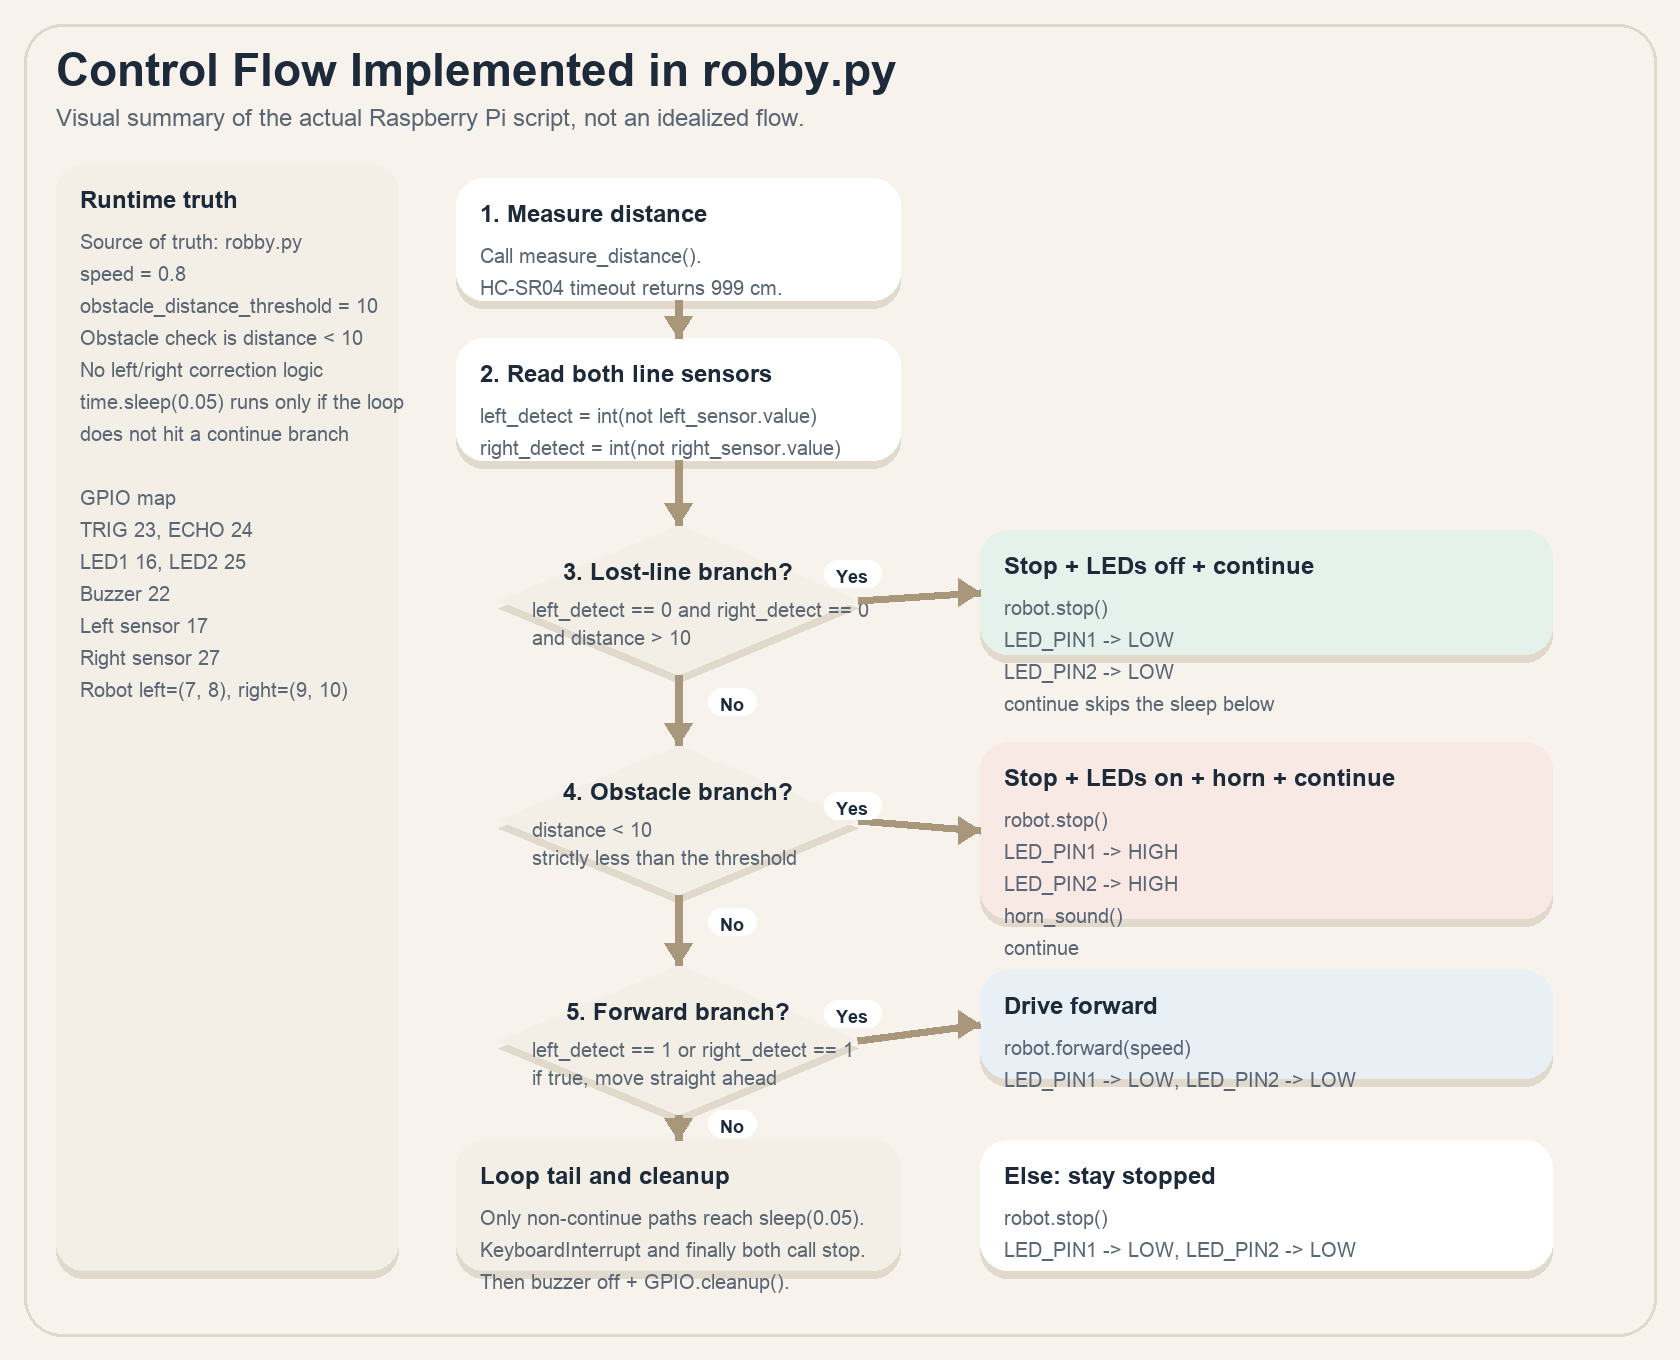
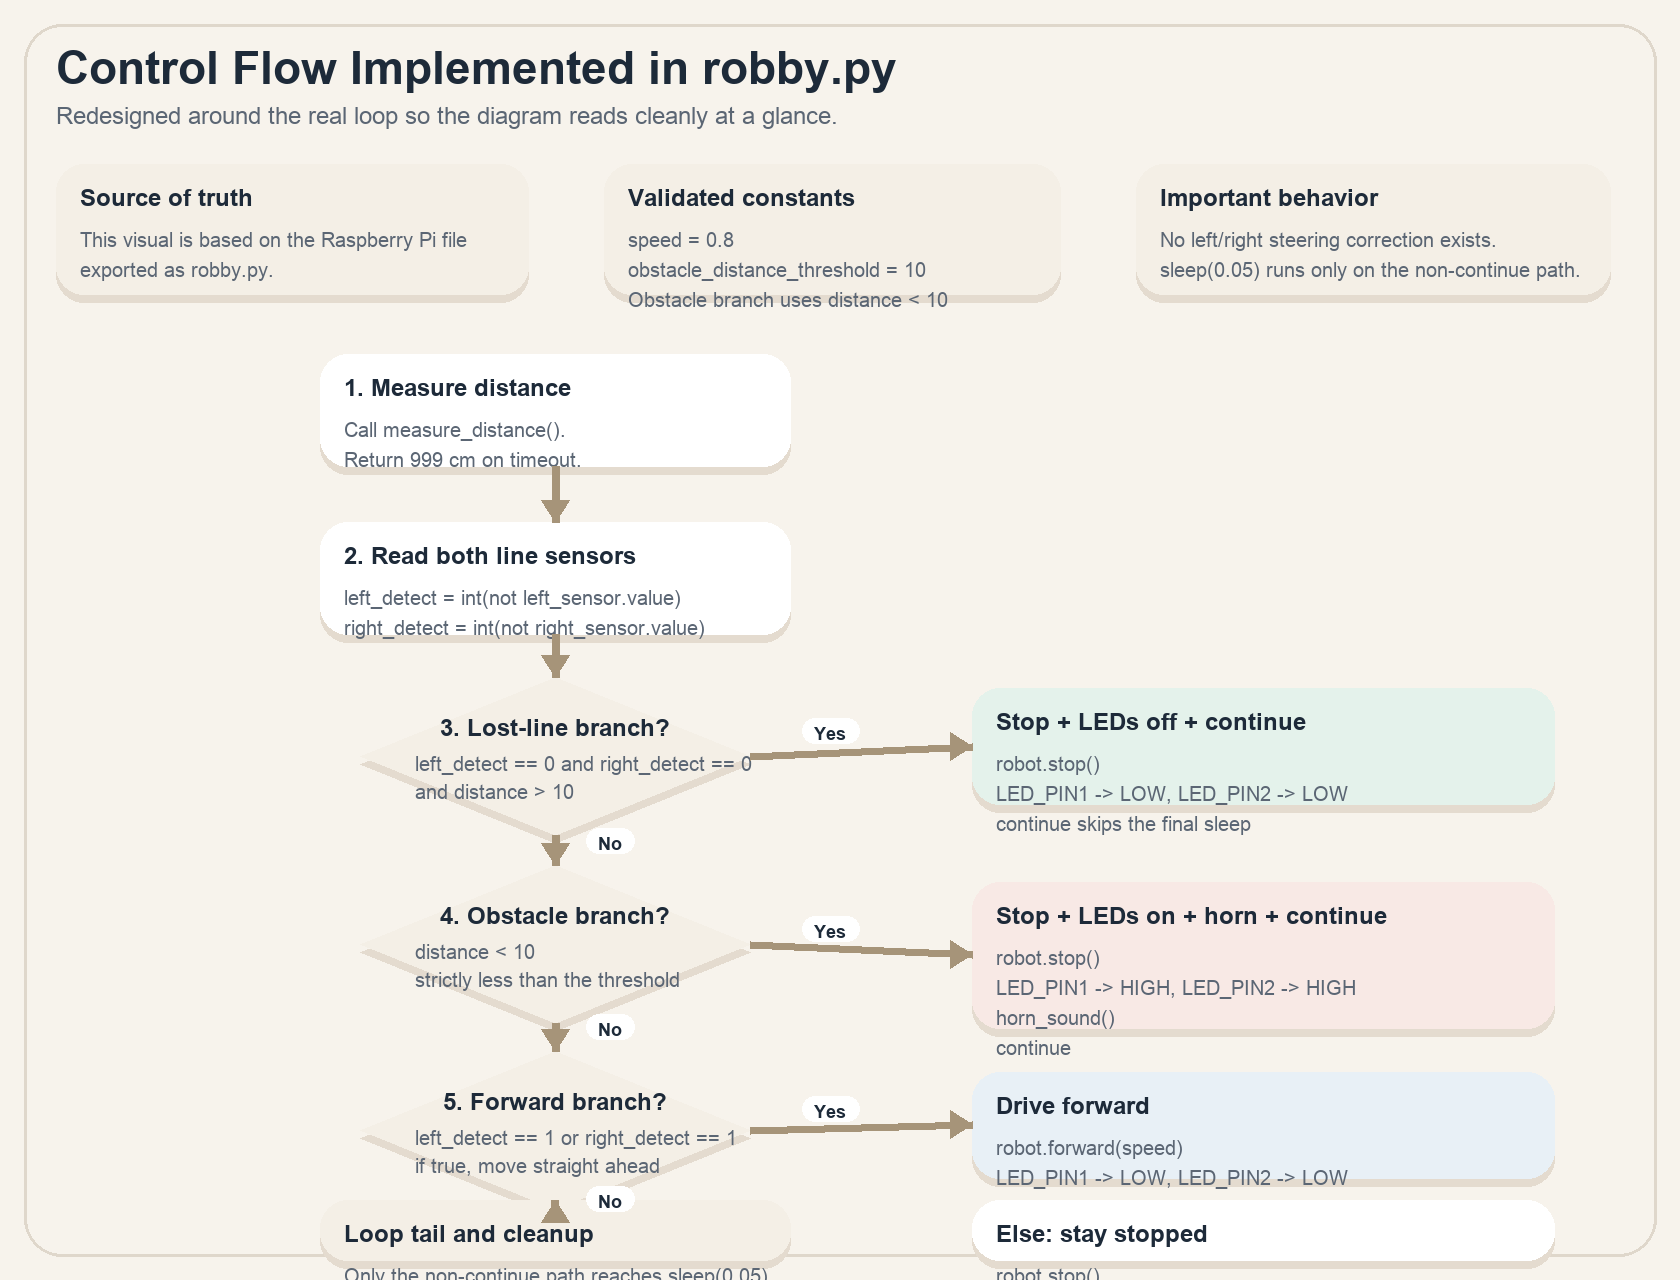
Redesign control flow visual

diff --git a/tools/render_control_flow.py b/tools/render_control_flow.py
@@ -9,58 +9,57 @@ ROOT = Path(__file__).resolve().parents[1]
 OUTPUT = ROOT / "docs" / "assets" / "control-flow.png"
 
 WIDTH = 1680
-HEIGHT = 1360
+HEIGHT = 1280
 
 BG = (247, 243, 236)
 SURFACE = (255, 255, 255)
 SURFACE_SOFT = (244, 239, 230)
 NAVY = (29, 42, 57)
-SLATE = (90, 102, 116)
-ACCENT = (169, 151, 123)
-BORDER = (224, 216, 204)
+SLATE = (91, 102, 116)
+ACCENT = (166, 148, 121)
+BORDER = (223, 215, 203)
 GREEN = (228, 242, 235)
 RED = (248, 233, 229)
 BLUE = (232, 240, 246)
-SHADOW = (226, 217, 205)
+SHADOW = (228, 219, 207)
 
 
-def load_font(path: str, size: int) -> ImageFont.FreeTypeFont | ImageFont.ImageFont:
+def font(path: str, size: int) -> ImageFont.FreeTypeFont | ImageFont.ImageFont:
     try:
         return ImageFont.truetype(path, size)
     except Exception:
         return ImageFont.load_default()
 
 
-FONT_TITLE = load_font("/System/Library/Fonts/Supplemental/Arial Bold.ttf", 46)
-FONT_SUBTITLE = load_font("/System/Library/Fonts/Supplemental/Arial.ttf", 24)
-FONT_CARD_TITLE = load_font("/System/Library/Fonts/Supplemental/Arial Bold.ttf", 24)
-FONT_BODY = load_font("/System/Library/Fonts/Supplemental/Arial.ttf", 20)
-FONT_TAG = load_font("/System/Library/Fonts/Supplemental/Arial Bold.ttf", 18)
+FONT_TITLE = font("/System/Library/Fonts/Supplemental/Arial Bold.ttf", 46)
+FONT_SUBTITLE = font("/System/Library/Fonts/Supplemental/Arial.ttf", 24)
+FONT_CARD_TITLE = font("/System/Library/Fonts/Supplemental/Arial Bold.ttf", 24)
+FONT_BODY = font("/System/Library/Fonts/Supplemental/Arial.ttf", 20)
+FONT_TAG = font("/System/Library/Fonts/Supplemental/Arial Bold.ttf", 18)
 
 
-def draw_shadowed_round_rect(
+def shadow_card(
     draw: ImageDraw.ImageDraw,
     box: tuple[int, int, int, int],
-    fill: tuple[int, int, int],
+    fill: tuple[int, int, int] = SURFACE,
     radius: int = 28,
-    shadow_offset: int = 8,
 ) -> None:
     x1, y1, x2, y2 = box
-    draw.rounded_rectangle((x1, y1 + shadow_offset, x2, y2 + shadow_offset), radius=radius, fill=SHADOW)
+    draw.rounded_rectangle((x1, y1 + 8, x2, y2 + 8), radius=radius, fill=SHADOW)
     draw.rounded_rectangle(box, radius=radius, fill=fill)
 
 
-def draw_wrapped_lines(
+def write_lines(
     draw: ImageDraw.ImageDraw,
-    x: int,
-    y: int,
+    start: tuple[int, int],
     lines: list[str],
-    font: ImageFont.ImageFont,
+    font_obj: ImageFont.ImageFont,
     fill: tuple[int, int, int],
-    gap: int = 32,
+    gap: int = 30,
 ) -> None:
+    x, y = start
     for line in lines:
-        draw.text((x, y), line, font=font, fill=fill)
+        draw.text((x, y), line, font=font_obj, fill=fill)
         y += gap
 
 
@@ -71,10 +70,10 @@ def card(
     lines: list[str],
     fill: tuple[int, int, int] = SURFACE,
 ) -> None:
-    draw_shadowed_round_rect(draw, box, fill)
+    shadow_card(draw, box, fill=fill)
     x1, y1, _, _ = box
-    draw.text((x1 + 24, y1 + 22), title, font=FONT_CARD_TITLE, fill=NAVY)
-    draw_wrapped_lines(draw, x1 + 24, y1 + 66, lines, FONT_BODY, SLATE)
+    draw.text((x1 + 24, y1 + 20), title, font=FONT_CARD_TITLE, fill=NAVY)
+    write_lines(draw, (x1 + 24, y1 + 64), lines, FONT_BODY, SLATE)
 
 
 def diamond(
@@ -86,24 +85,24 @@ def diamond(
 ) -> tuple[int, int, int, int]:
     cx, cy = center
     w, h = size
-    shadow_points = [
+    shadow = [
         (cx, cy - h // 2 + 8),
         (cx + w // 2, cy + 8),
         (cx, cy + h // 2 + 8),
         (cx - w // 2, cy + 8),
     ]
-    draw.polygon(shadow_points, fill=SHADOW)
-    points = [
+    draw.polygon(shadow, fill=SHADOW)
+    poly = [
         (cx, cy - h // 2),
         (cx + w // 2, cy),
         (cx, cy + h // 2),
         (cx - w // 2, cy),
     ]
-    draw.polygon(points, fill=SURFACE_SOFT)
+    draw.polygon(poly, fill=SURFACE_SOFT)
     title_box = draw.textbbox((0, 0), title, font=FONT_CARD_TITLE)
     title_width = title_box[2] - title_box[0]
     draw.text((cx - title_width / 2, cy - 42), title, font=FONT_CARD_TITLE, fill=NAVY)
-    draw_wrapped_lines(draw, cx - 146, cy - 2, lines, FONT_BODY, SLATE, gap=28)
+    write_lines(draw, (cx - 140, cy - 4), lines, FONT_BODY, SLATE, gap=28)
     return (cx - w // 2, cy - h // 2, cx + w // 2, cy + h // 2)
 
 
@@ -112,23 +111,24 @@ def arrow(
     start: tuple[int, int],
     end: tuple[int, int],
     label: str | None = None,
-    label_xy: tuple[int, int] | None = None,
+    label_pos: tuple[int, int] | None = None,
 ) -> None:
     draw.line((start, end), fill=ACCENT, width=8)
     x1, y1 = start
     x2, y2 = end
     if abs(x2 - x1) >= abs(y2 - y1):
-        sign = 1 if x2 > x1 else -1
-        head = [(x2, y2), (x2 - 22 * sign, y2 - 14), (x2 - 22 * sign, y2 + 14)]
+        direction = 1 if x2 > x1 else -1
+        head = [(x2, y2), (x2 - 22 * direction, y2 - 14), (x2 - 22 * direction, y2 + 14)]
     else:
-        sign = 1 if y2 > y1 else -1
-        head = [(x2, y2), (x2 - 14, y2 - 22 * sign), (x2 + 14, y2 - 22 * sign)]
+        direction = 1 if y2 > y1 else -1
+        head = [(x2, y2), (x2 - 14, y2 - 22 * direction), (x2 + 14, y2 - 22 * direction)]
     draw.polygon(head, fill=ACCENT)
-    if label and label_xy:
-        lx, ly = label_xy
+
+    if label and label_pos:
+        lx, ly = label_pos
         bbox = draw.textbbox((0, 0), label, font=FONT_TAG)
         pad_x = 12
-        pad_y = 7
+        pad_y = 6
         draw.rounded_rectangle(
             (lx, ly, lx + (bbox[2] - bbox[0]) + 2 * pad_x, ly + (bbox[3] - bbox[1]) + 2 * pad_y),
             radius=14,
@@ -142,58 +142,66 @@ def main() -> None:
     draw = ImageDraw.Draw(image)
 
     draw.rounded_rectangle((24, 24, WIDTH - 24, HEIGHT - 24), radius=38, outline=BORDER, width=3)
-    draw.text((56, 44), "Control Flow Implemented in robby.py", font=FONT_TITLE, fill=NAVY)
-    draw.text((56, 104), "Visual summary of the actual Raspberry Pi script, not an idealized flow.", font=FONT_SUBTITLE, fill=SLATE)
 
-    # Left rail
+    draw.text((56, 42), "Control Flow Implemented in robby.py", font=FONT_TITLE, fill=NAVY)
+    draw.text((56, 102), "Redesigned around the real loop so the diagram reads cleanly at a glance.", font=FONT_SUBTITLE, fill=SLATE)
+
+    # Top info row
     card(
         draw,
-        (56, 164, 398, 1270),
-        "Runtime truth",
+        (56, 164, 528, 294),
+        "Source of truth",
         [
-            "Source of truth: robby.py",
+            "This visual is based on the Raspberry Pi file",
+            "exported as robby.py.",
+        ],
+        fill=SURFACE_SOFT,
+    )
+    card(
+        draw,
+        (604, 164, 1060, 294),
+        "Validated constants",
+        [
             "speed = 0.8",
             "obstacle_distance_threshold = 10",
-            "Obstacle check is distance < 10",
-            "No left/right correction logic",
-            "time.sleep(0.05) runs only if the loop",
-            "does not hit a continue branch",
-            "",
-            "GPIO map",
-            "TRIG 23, ECHO 24",
-            "LED1 16, LED2 25",
-            "Buzzer 22",
-            "Left sensor 17",
-            "Right sensor 27",
-            "Robot left=(7, 8), right=(9, 10)",
+            "Obstacle branch uses distance < 10",
+        ],
+        fill=SURFACE_SOFT,
+    )
+    card(
+        draw,
+        (1136, 164, 1610, 294),
+        "Important behavior",
+        [
+            "No left/right steering correction exists.",
+            "sleep(0.05) runs only on the non-continue path.",
         ],
         fill=SURFACE_SOFT,
     )
 
-    # Main flow
+    # Center spine
     card(
         draw,
-        (456, 178, 900, 300),
+        (320, 354, 790, 466),
         "1. Measure distance",
         [
             "Call measure_distance().",
-            "HC-SR04 timeout returns 999 cm.",
+            "Return 999 cm on timeout.",
         ],
     )
     card(
         draw,
-        (456, 338, 900, 460),
+        (320, 522, 790, 634),
         "2. Read both line sensors",
         [
             "left_detect = int(not left_sensor.value)",
             "right_detect = int(not right_sensor.value)",
         ],
     )
-
     d1 = diamond(
         draw,
-        (678, 600),
-        (360, 150),
+        (555, 756),
+        (390, 158),
         "3. Lost-line branch?",
         [
             "left_detect == 0 and right_detect == 0",
@@ -202,8 +210,8 @@ def main() -> None:
     )
     d2 = diamond(
         draw,
-        (678, 820),
-        (360, 150),
+        (555, 944),
+        (390, 158),
         "4. Obstacle branch?",
         [
             "distance < 10",
@@ -212,8 +220,8 @@ def main() -> None:
     )
     d3 = diamond(
         draw,
-        (678, 1040),
-        (360, 150),
+        (555, 1130),
+        (390, 158),
         "5. Forward branch?",
         [
             "left_detect == 1 or right_detect == 1",
@@ -221,26 +229,25 @@ def main() -> None:
         ],
     )
 
+    # Right-side outcomes
     card(
         draw,
-        (980, 530, 1552, 654),
+        (972, 688, 1554, 804),
         "Stop + LEDs off + continue",
         [
             "robot.stop()",
-            "LED_PIN1 -> LOW",
-            "LED_PIN2 -> LOW",
-            "continue skips the sleep below",
+            "LED_PIN1 -> LOW, LED_PIN2 -> LOW",
+            "continue skips the final sleep",
         ],
         fill=GREEN,
     )
     card(
         draw,
-        (980, 742, 1552, 918),
+        (972, 882, 1554, 1028),
         "Stop + LEDs on + horn + continue",
         [
             "robot.stop()",
-            "LED_PIN1 -> HIGH",
-            "LED_PIN2 -> HIGH",
+            "LED_PIN1 -> HIGH, LED_PIN2 -> HIGH",
             "horn_sound()",
             "continue",
         ],
@@ -248,7 +255,7 @@ def main() -> None:
     )
     card(
         draw,
-        (980, 970, 1552, 1078),
+        (972, 1072, 1554, 1178),
         "Drive forward",
         [
             "robot.forward(speed)",
@@ -258,37 +265,36 @@ def main() -> None:
     )
     card(
         draw,
-        (980, 1140, 1552, 1270),
+        (972, 1200, 1554, 1260),
         "Else: stay stopped",
         [
             "robot.stop()",
-            "LED_PIN1 -> LOW, LED_PIN2 -> LOW",
         ],
         fill=SURFACE,
     )
 
+    # Footer note
     card(
         draw,
-        (456, 1140, 900, 1270),
+        (320, 1200, 790, 1260),
         "Loop tail and cleanup",
         [
-            "Only non-continue paths reach sleep(0.05).",
-            "KeyboardInterrupt and finally both call stop.",
-            "Then buzzer off + GPIO.cleanup().",
+            "Only the non-continue path reaches sleep(0.05).",
         ],
         fill=SURFACE_SOFT,
     )
 
-    # Arrows
-    arrow(draw, (678, 300), (678, 338))
-    arrow(draw, (678, 460), (678, d1[1]))
-    arrow(draw, (678, d1[3]), (678, d2[1]), label="No", label_xy=(708, 688))
-    arrow(draw, (678, d2[3]), (678, d3[1]), label="No", label_xy=(708, 908))
-    arrow(draw, (678, d3[3]), (678, 1140), label="No", label_xy=(708, 1110))
+    # Vertical spine arrows
+    arrow(draw, (555, 466), (555, 522))
+    arrow(draw, (555, 634), (555, d1[1]))
+    arrow(draw, (555, d1[3]), (555, d2[1]), label="No", label_pos=(586, 828))
+    arrow(draw, (555, d2[3]), (555, d3[1]), label="No", label_pos=(586, 1014))
+    arrow(draw, (555, d3[3]), (555, 1200), label="No", label_pos=(586, 1186))
 
-    arrow(draw, (d1[2], 600), (980, 592), label="Yes", label_xy=(824, 560))
-    arrow(draw, (d2[2], 820), (980, 830), label="Yes", label_xy=(824, 792))
-    arrow(draw, (d3[2], 1040), (980, 1024), label="Yes", label_xy=(824, 1000))
+    # Branch arrows
+    arrow(draw, (d1[2], 756), (972, 746), label="Yes", label_pos=(802, 718))
+    arrow(draw, (d2[2], 944), (972, 954), label="Yes", label_pos=(802, 916))
+    arrow(draw, (d3[2], 1130), (972, 1124), label="Yes", label_pos=(802, 1096))
 
     OUTPUT.parent.mkdir(parents=True, exist_ok=True)
     image.save(OUTPUT, quality=95)
